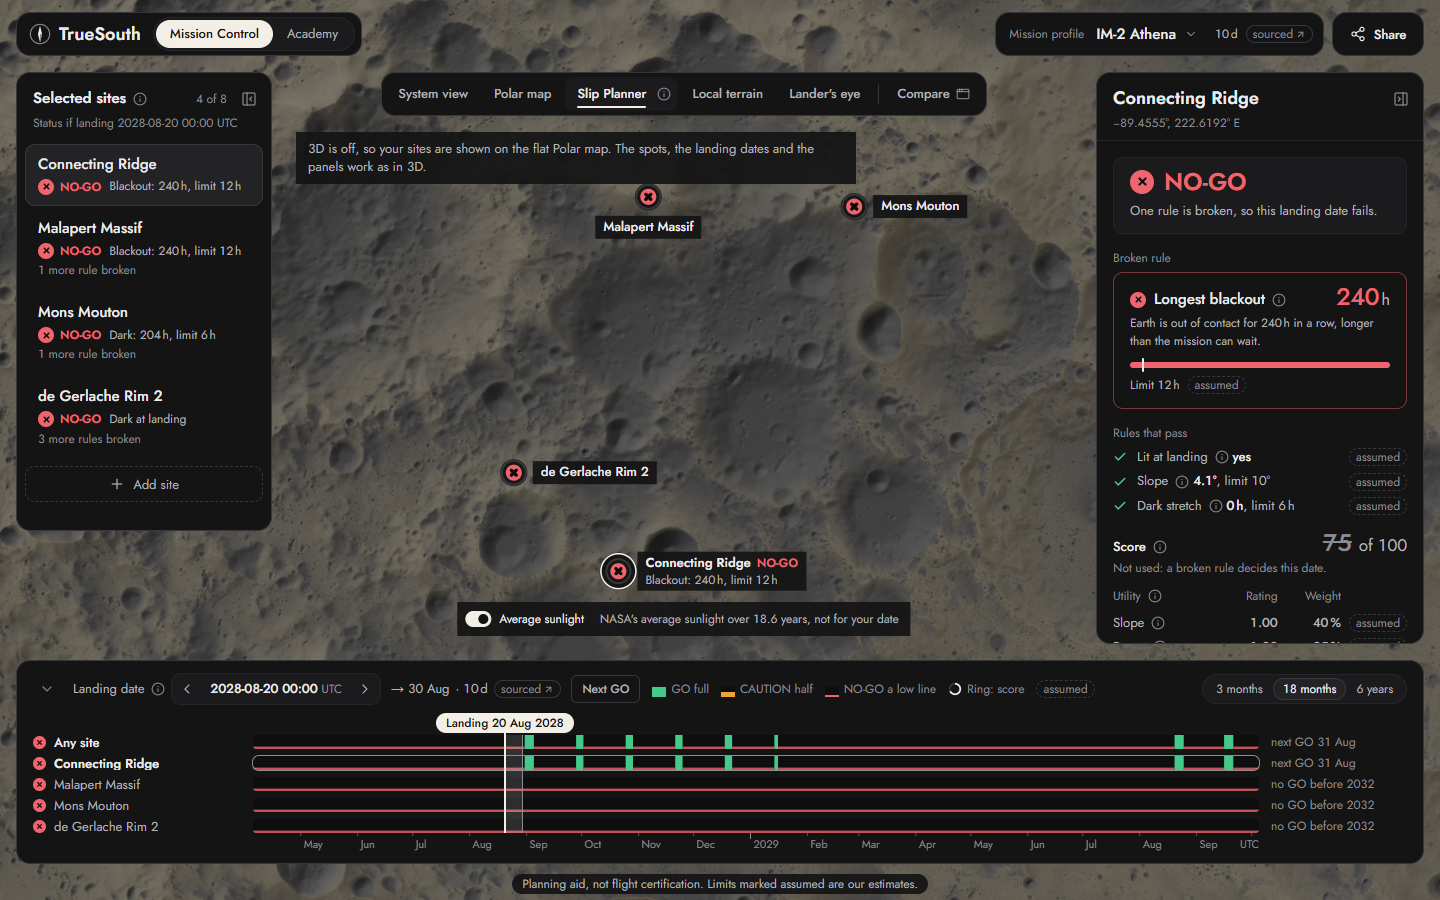
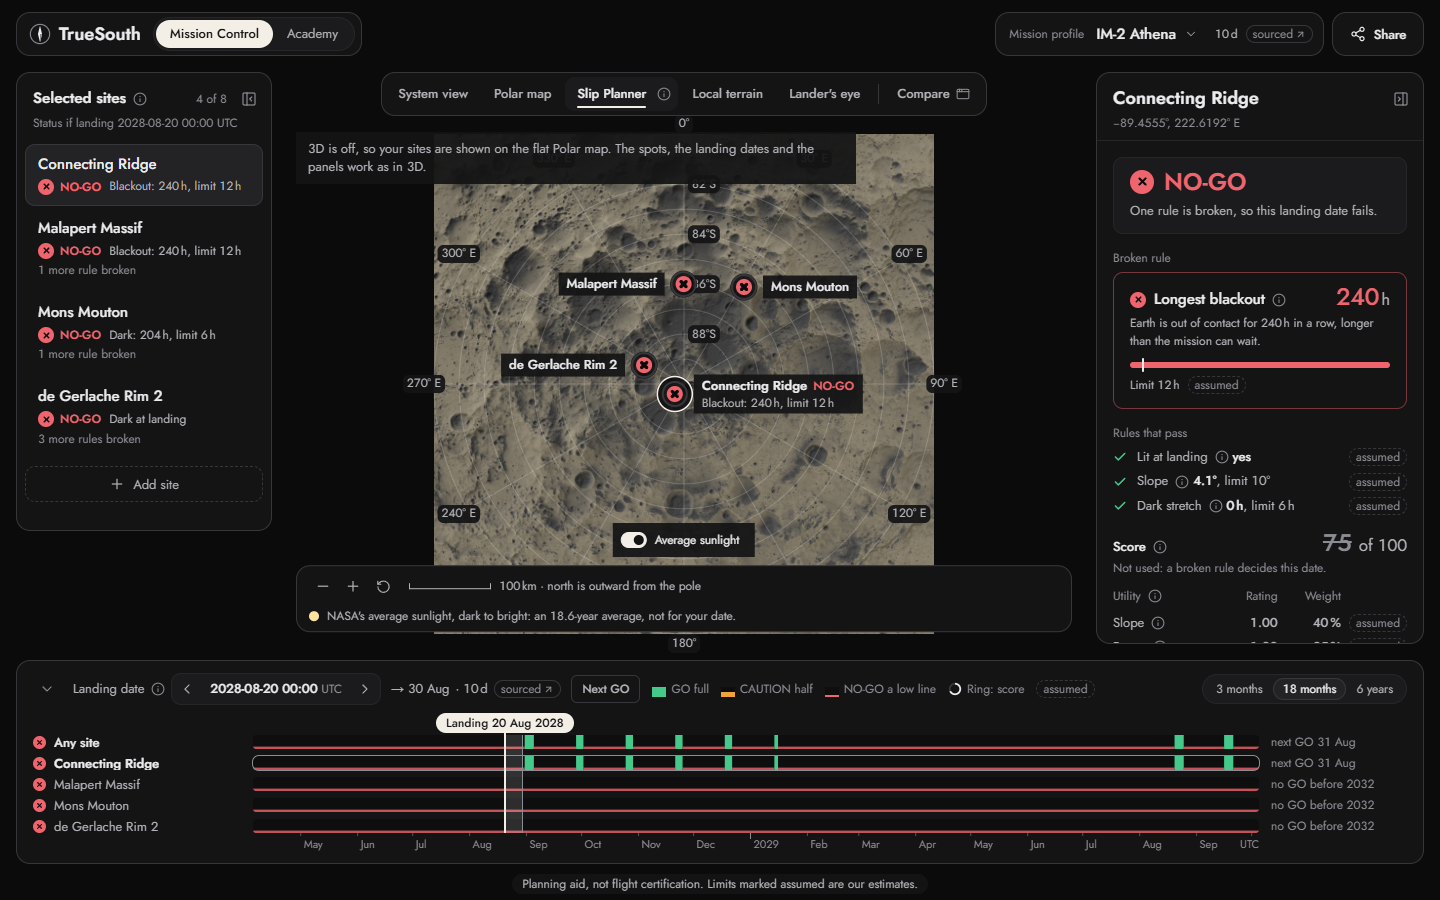
MC7: with 3D off, our foot plates sit above the flat map's controls; DEVLOG for #89
The map's own control plate (zoom, scale, sunlight legend) sat on top of the
Average sunlight switch. The switch and the before-and-after line now sit just
above it; the map's legend carries the 'not for your date' label there.

diff --git a/web/src/features/mission-control/slip-planner/spots-layer.tsx b/web/src/features/mission-control/slip-planner/spots-layer.tsx
@@ -182,8 +182,8 @@ export function SlipPlannerScene(props: SlipPlannerSceneProps) {
   const labelRefs = useRef(new Map<string, HTMLDivElement>());
   const [hover, setHover] = useState<string | null>(null);
   const hoverRef = useRef<HTMLDivElement>(null);
-  const latest = useRef({ onMap, freeSpace, phone, source });
-  latest.current = { onMap, freeSpace, phone, source };
+  const latest = useRef({ onMap, freeSpace, phone, source, flat });
+  latest.current = { onMap, freeSpace, phone, source, flat };
 
   const mapFrame = useMemo(
     () => ({ x: freeSpace.x, y: freeSpace.y, width: freeSpace.width, height: freeSpace.height }),
@@ -204,6 +204,14 @@ export function SlipPlannerScene(props: SlipPlannerSceneProps) {
     const placed = placeSpots(points, scale);
     const order = [...list].sort((a, b) => b.priority - a.priority);
     const shown = placed.filter((p) => p.visible);
+    // With 3D off the flat map has its own control plate at the foot of the free space (zoom,
+    // scale and the sunlight legend): ours sit just above it, never under it.
+    const footEl = footRef.current;
+    if (footEl) {
+      const mapFoot = latest.current.flat ? layerRef.current?.querySelector(".slip-flat-map .pm-foot") : null;
+      const mapTop = mapFoot ? mapFoot.getBoundingClientRect() : null;
+      footEl.style.top = mapTop && mapTop.height > 0 ? `${(mapTop.top - 8).toFixed(1)}px` : "";
+    }
     // Labels keep clear of the plates at the top (notes) and the foot (summary, controls).
     const topPlates = topRef.current?.getBoundingClientRect();
     const footPlates = footRef.current?.getBoundingClientRect();
@@ -385,7 +393,8 @@ export function SlipPlannerScene(props: SlipPlannerSceneProps) {
                 <span className="tl-switch-track" aria-hidden="true" />
                 Average sunlight
               </button>
-              {foot.label ? <span className="slip-shading-label">{foot.label}</span> : null}
+              {/* With 3D off the map's own legend says it: "an 18.6-year average, not for your date". */}
+              {foot.label && !flat ? <span className="slip-shading-label">{foot.label}</span> : null}
             </div>
           </div>
         </>
